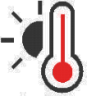
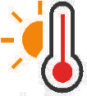
change: 気温の見出しの絵の太陽をオレンジ色に
Claude-Session: https://claude.ai/code/session_01M6MmCFRYFULb3Pq5EuzxK3

diff --git a/README.md b/README.md
@@ -465,7 +465,7 @@ WantedBy=multi-user.target
 
 ### 見出しの絵
 
-今日の天気の見出し「降水量」「気　温」「風　速」の右に、文字と同じ大きさ（22px）の絵を付ける（降水量は雨粒を青、気温は温度計の液を赤、風速は線を青。ほかは濃い灰色）。「気温」「風速」は真ん中に全角スペースを入れて「降水量」と同じ幅にし、絵を縦一列にそろえる（`weather_icons/labels/` の `precip.png`・`temp.png`・`wind.png`。`weather_draw.py` の `LABEL_ICONS`）。
+今日の天気の見出し「降水量」「気　温」「風　速」の右に、文字と同じ大きさ（22px）の絵を付ける（降水量は雨粒を青、気温は太陽を橙・温度計の液を赤、風速は線を青。ほかは濃い灰色）。「気温」「風速」は真ん中に全角スペースを入れて「降水量」と同じ幅にし、絵を縦一列にそろえる（`weather_icons/labels/` の `precip.png`・`temp.png`・`wind.png`。`weather_draw.py` の `LABEL_ICONS`）。
 
 ### 今日の天気のアイコン（Open-Meteo の天気 → 気象庁のアイコン）
 
